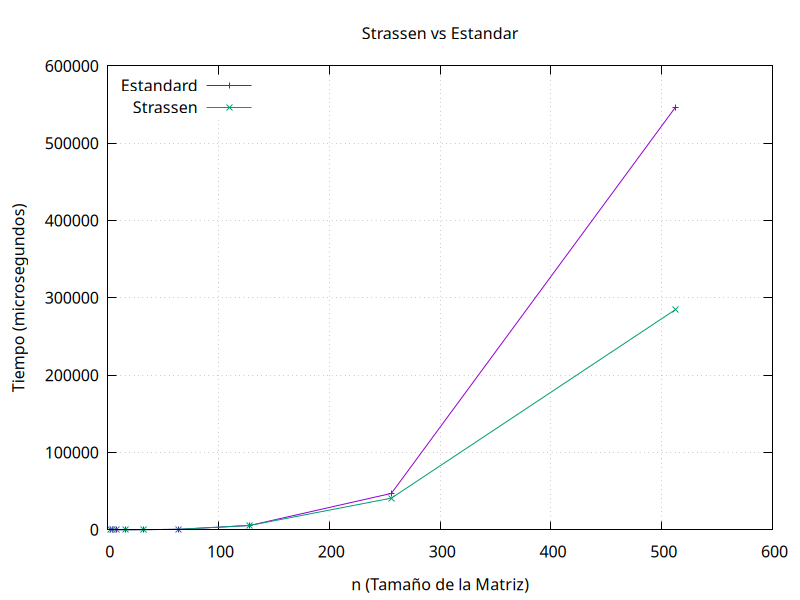
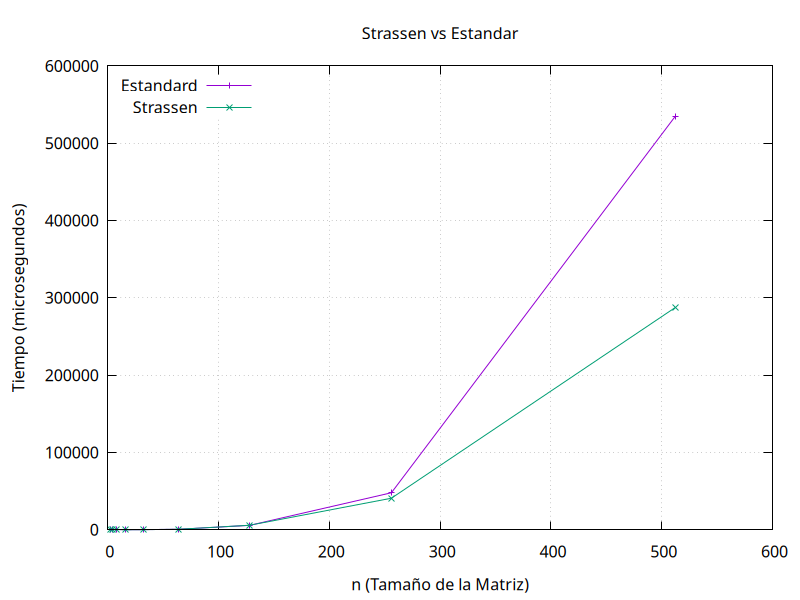
Se agregaron múltiples repeticiones y cálculo del promedio de tiempos para reducir variaciones y mejorar la estabilidad de las mediciones experimentales

diff --git a/main.cpp b/main.cpp
@@ -153,15 +153,29 @@ static double measureStrassen(Matriz A, Matriz B) {
 int main(){
   srand(time(0));
   
+  const int REPETICIONES = 10;
+
   cout << "# n tiempo_standar tiempo_strassen" << endl;
-  for(int size = 2; size <= 512; size *= 2) {
+  
+  vector<int> sizes = {2, 4, 8, 16, 32, 64, 128, 256, 512};
+
+  for(int size : sizes) {
     Matriz A = generateMatriz(size);
     Matriz B = generateMatriz(size);
     
-    double tStandar = measureStandar(A, B);
-    double tStrassen = measureStrassen(A, B);
+    double totalStandar = 0;
+    double totalStrassen = 0;
 
+    for(int i = 0; i < REPETICIONES; i++) {
+      totalStandar += measureStandar(A, B);
+      totalStrassen += measureStrassen(A, B);
+    }
+
+    double tStandar = totalStandar / REPETICIONES;
+    double tStrassen = totalStrassen / REPETICIONES;
+    
     cout << size << " " << tStandar << " " << tStrassen << endl;
   }
+
   return 0;
 }